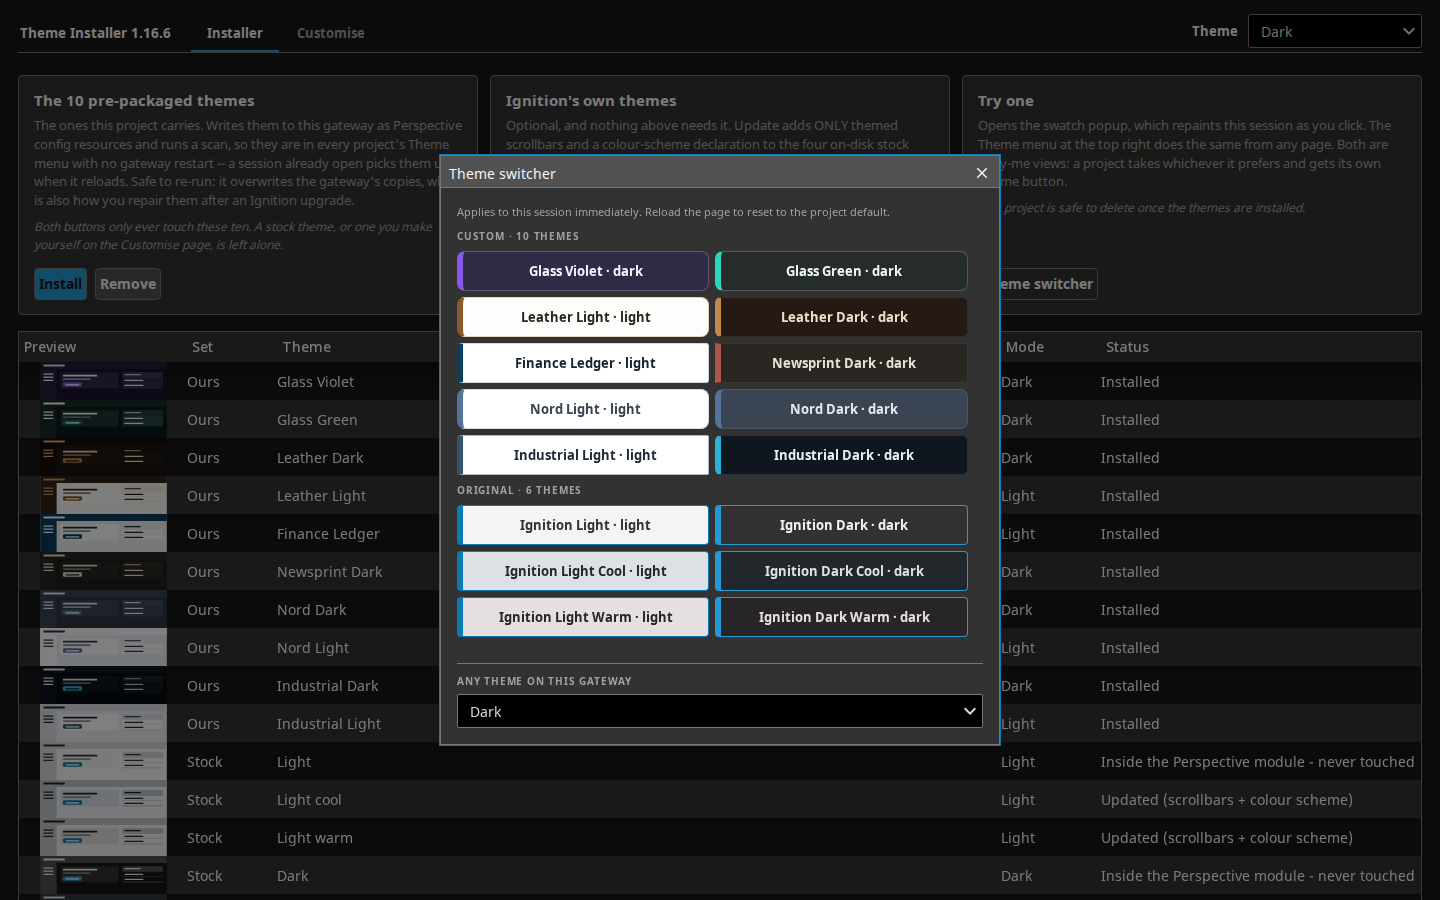
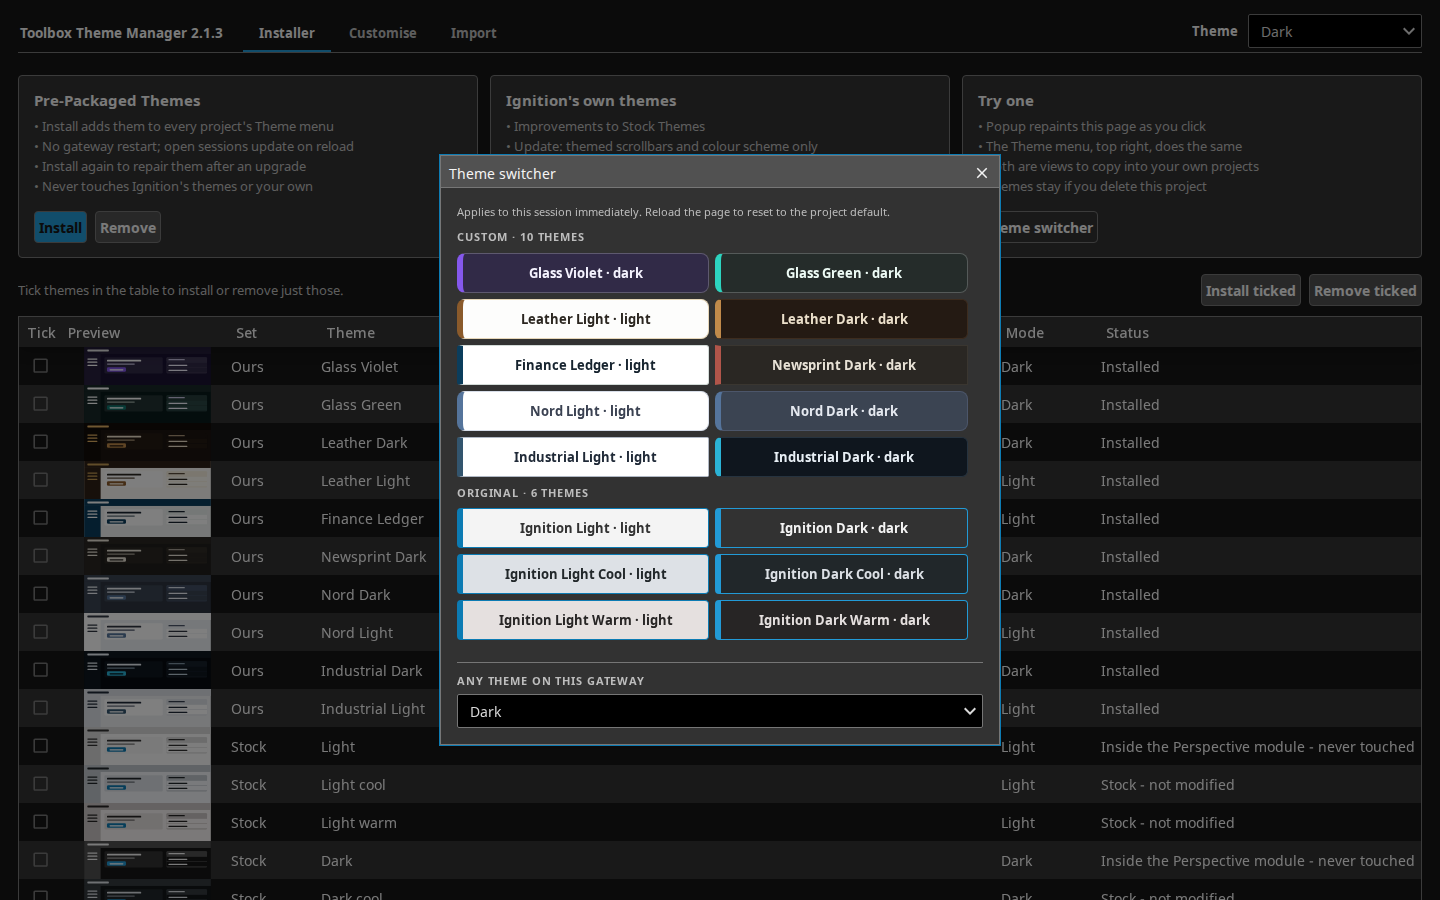
Toolbox Theme Manager 2.1.3: switcher popup contrast, dark/light repaint
The popup's 11px secondary text (hint, the three headings, the empty-state
line) uses --neutral-70: 5.45:1 or better on --container in all sixteen
themes, measured with axe; --label--disabled gave 3.79-4.12:1 in Ignition's
three light themes. --icon equals --label in the ten pack themes, so it would
not read as secondary.

Ignition Dark and Ignition Light set dark-cool/light-cool first and the theme
0.25 s later, unless another swatch was picked meanwhile. The client skips a
theme whose file name ends the current one's (industrial-dark.css -> dark.css),
and the gateway sends a page's changes at most every 100 ms, so a plain double
write reaches the client as one. Click handlers run on perspective-worker, an
unbounded cached pool, so the pause holds only its own thread.

getResources lists light and dark (defining collection "system", no folder on
disk); the docs and the popup's comment said otherwise. The listing skips the
stock six, so none is offered twice. Switcher screenshots retaken on 2.1.3.

diff --git a/ignition/script-python/themepack/code.py b/ignition/script-python/themepack/code.py
@@ -6,7 +6,7 @@ GENERATED by tools/build_manager.py from tools/themes/out/
 -- DO NOT EDIT BY HAND. Regenerate with:
     python3 tools/build_manager.py
 
-Version 2.1.2. Gateway scope only -- install()/install_all() write
+Version 2.1.3. Gateway scope only -- install()/install_all() write
 files under <dataDir>/config/resources/core/
 com.inductiveautomation.perspective/themes/<id>/ and request a
 config scan; uninstall()/uninstall_all() go through

diff --git a/docs/THEMES-INTERNALS.md b/docs/THEMES-INTERNALS.md
@@ -26,12 +26,14 @@ classes:
 
 **Both list the gateway, not this repo.** Each asks
 `system.config.getResources(moduleId="com.inductiveautomation.perspective",
-typeId="themes")` when it opens, and adds Ignition's stock six as a fixed base
-(`light` and `dark` live inside the Perspective module's jar and never appear
-as resources). So a switcher copied onto a gateway that has none of these
-themes offers that gateway's own themes instead of writing an id Perspective
-cannot resolve, and a theme from anywhere else shows up without either file
-being edited.
+typeId="themes")` when it opens. That returns Ignition's six with the rest:
+`light` and `dark` come with the Perspective module and have no folder on
+disk, but are listed all the same. Each view keeps the six as a fixed base, so
+a failed listing still offers them, and skips them in what the gateway
+returns, so none is offered twice. A switcher copied onto a gateway that has
+none of these themes offers that gateway's own themes instead of writing an id
+Perspective cannot resolve, and a theme from anywhere else shows up without
+either file being edited.
 
 The popup's swatch colours are a fixed hand-verified list — a view binding
 cannot read a colour out of a theme's CSS — but a swatch is only *offered*
@@ -67,6 +69,20 @@ To use the popup in another project:
 
 That is it — the popup writes `session.props.theme` itself when a swatch is
 clicked; nothing else needs wiring up.
+
+**Ignition Dark and Ignition Light go by way of their Cool variants.** The
+Perspective client does not load a theme whose file name ends the current
+one's: from `industrial-dark.css` it never loads `dark.css`, nor `light.css`
+from `industrial-light.css`. Those two swatches set `dark-cool` (or
+`light-cool`) first and the theme they name 0.25 s later, unless another
+swatch was picked meanwhile. The gateway sends a page's changes at most every
+100 ms, so two writes closer together reach the client as one. Going by way of
+the Cool variant also mends a page that opened on a project default such as
+`industrial-dark` while its session was already on `dark`.
+
+The popup's own text uses `--neutral-70`, which meets WCAG 2.1 AA (4.5:1) on
+`--container` in all sixteen themes and stays lighter than `--label`.
+`--label--disabled` misses 4.5:1 at 11px in Ignition's three light themes.
 
 Both views are hand-authored and commit-tracked at
 `selector-popup/SelectorPopup.view.json` and
@@ -295,7 +311,9 @@ again. The release's `toolbox-themes-<version>.zip` carries the same files.
 ## Selecting a theme by hand
 
 Bind `session.props.theme` (session-wide) or call
-`system.perspective.setTheme()` (page only). `out/themes.json` lists each
+`system.perspective.setTheme()` (page only). To reach `dark` or `light` from a
+theme whose id ends `-dark` or `-light`, set `dark-cool` or `light-cool` first
+and the theme more than 100 ms later, as the switcher popup does. `out/themes.json` lists each
 theme's id, label and mode for building a picker.
 
 ## The glass-green tweak

diff --git a/README.md b/README.md
@@ -60,7 +60,7 @@ Each theme sets 110 of the gateway's 120 built-in theme variables, declares `col
 | Installer: Update / Restore | Optional. Adds themed scrollbars and a `color-scheme` line to Ignition's four on-disk stock variants without changing their look, and takes them back off. |
 | Customise | Makes a theme of your own from one of the ten and edits its colours. |
 | Import | Checks a theme zip, shows the verdict and a preview, and installs it only if nothing was refused. |
-| Theme switcher | Two copy-me views, `SelectorPopup` and `ThemeDropdown`, that list whatever themes the gateway has. |
+| Theme switcher | Two copy-me views, `SelectorPopup` and `ThemeDropdown`, that list whatever themes the gateway has. The popup's text meets WCAG 2.1 AA in all sixteen themes, Ignition's six included. |
 
 ### What an import may contain
 
@@ -87,7 +87,7 @@ The upload is kept on the gateway, and Install checks that copy again, so what i
 
 The project has no parent, no database and no tag provider, and runs on any 8.3 gateway. Deleting it leaves the themes in place; they are gateway config, not project resources.
 
-Without the project: unzip `toolbox-themes-<version>.zip` from the same release and run `./install.sh --data-dir <dir>`, `--docker <container>` or `--ssh <host> --data-dir <dir>`, then **Config → Platform → Overview → Scan File System**. A session picks a theme through `session.props.theme`.
+Without the project: unzip `toolbox-themes-<version>.zip` from the same release and run `./install.sh --data-dir <dir>`, `--docker <container>` or `--ssh <host> --data-dir <dir>`, then **Config → Platform → Overview → Scan File System**. A session picks a theme through `session.props.theme`. To reach `dark` or `light` from a theme whose id ends `-dark` or `-light`, set `dark-cool` or `light-cool` first and the theme more than 100 ms later, as the switcher popup does: Perspective does not load `dark.css` while `industrial-dark.css` is loaded.
 
 ---
 

diff --git a/tools/themes/selector-popup/README.md b/tools/themes/selector-popup/README.md
@@ -15,10 +15,11 @@ copying either into a project drags nothing else in.
 
 Neither view offers a theme that is not on the gateway. Both call
 `system.config.getResources(moduleId="com.inductiveautomation.perspective",
-typeId="themes")` when they open, and both add Ignition's six stock themes as
-a fixed base (`light` and `dark` live inside the Perspective module's jar and
-never appear as config resources). A theme from anywhere else appears in both
-without either file being edited.
+typeId="themes")` when they open. Ignition's six stock themes are a fixed base
+in both, so a failed listing still offers them, and both skip them in what the
+gateway returns, which includes `light` and `dark` although neither has a
+folder on disk. A theme from anywhere else appears in both without either file
+being edited.
 
 The swatch grid's colours are a fixed, hand-verified list — a view binding
 cannot read a colour out of a theme's CSS — but a swatch is only offered when
@@ -50,4 +51,7 @@ system.perspective.openPopup(
 `width`/`height` are keys inside `position`, not top-level kwargs.
 
 Neither view needs a script package, a parent project, or any other prop
-wiring — each writes `session.props.theme` itself.
+wiring — each writes `session.props.theme` itself. The popup's Ignition Dark
+and Ignition Light swatches go by way of `dark-cool` and `light-cool`, 0.25 s
+apart: Perspective does not load `dark.css` while the page's theme file ends
+with it, as `industrial-dark.css` does.
